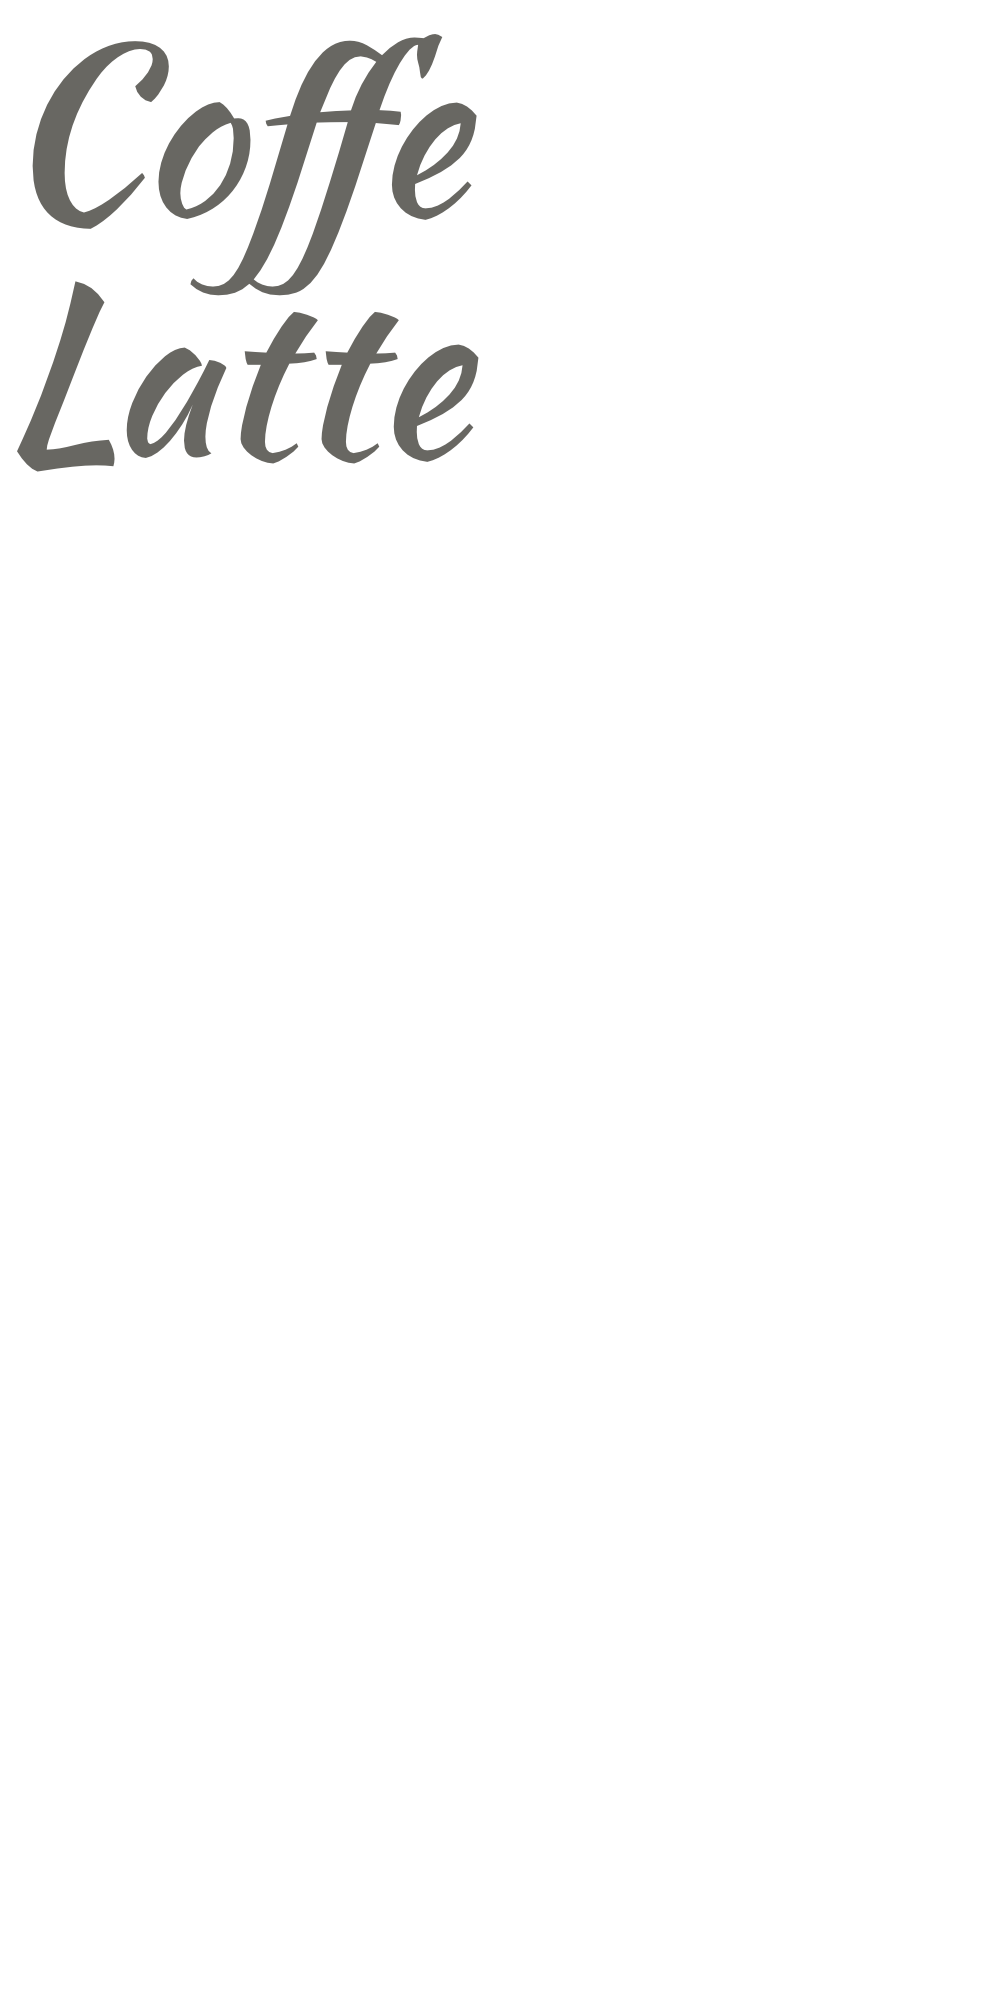
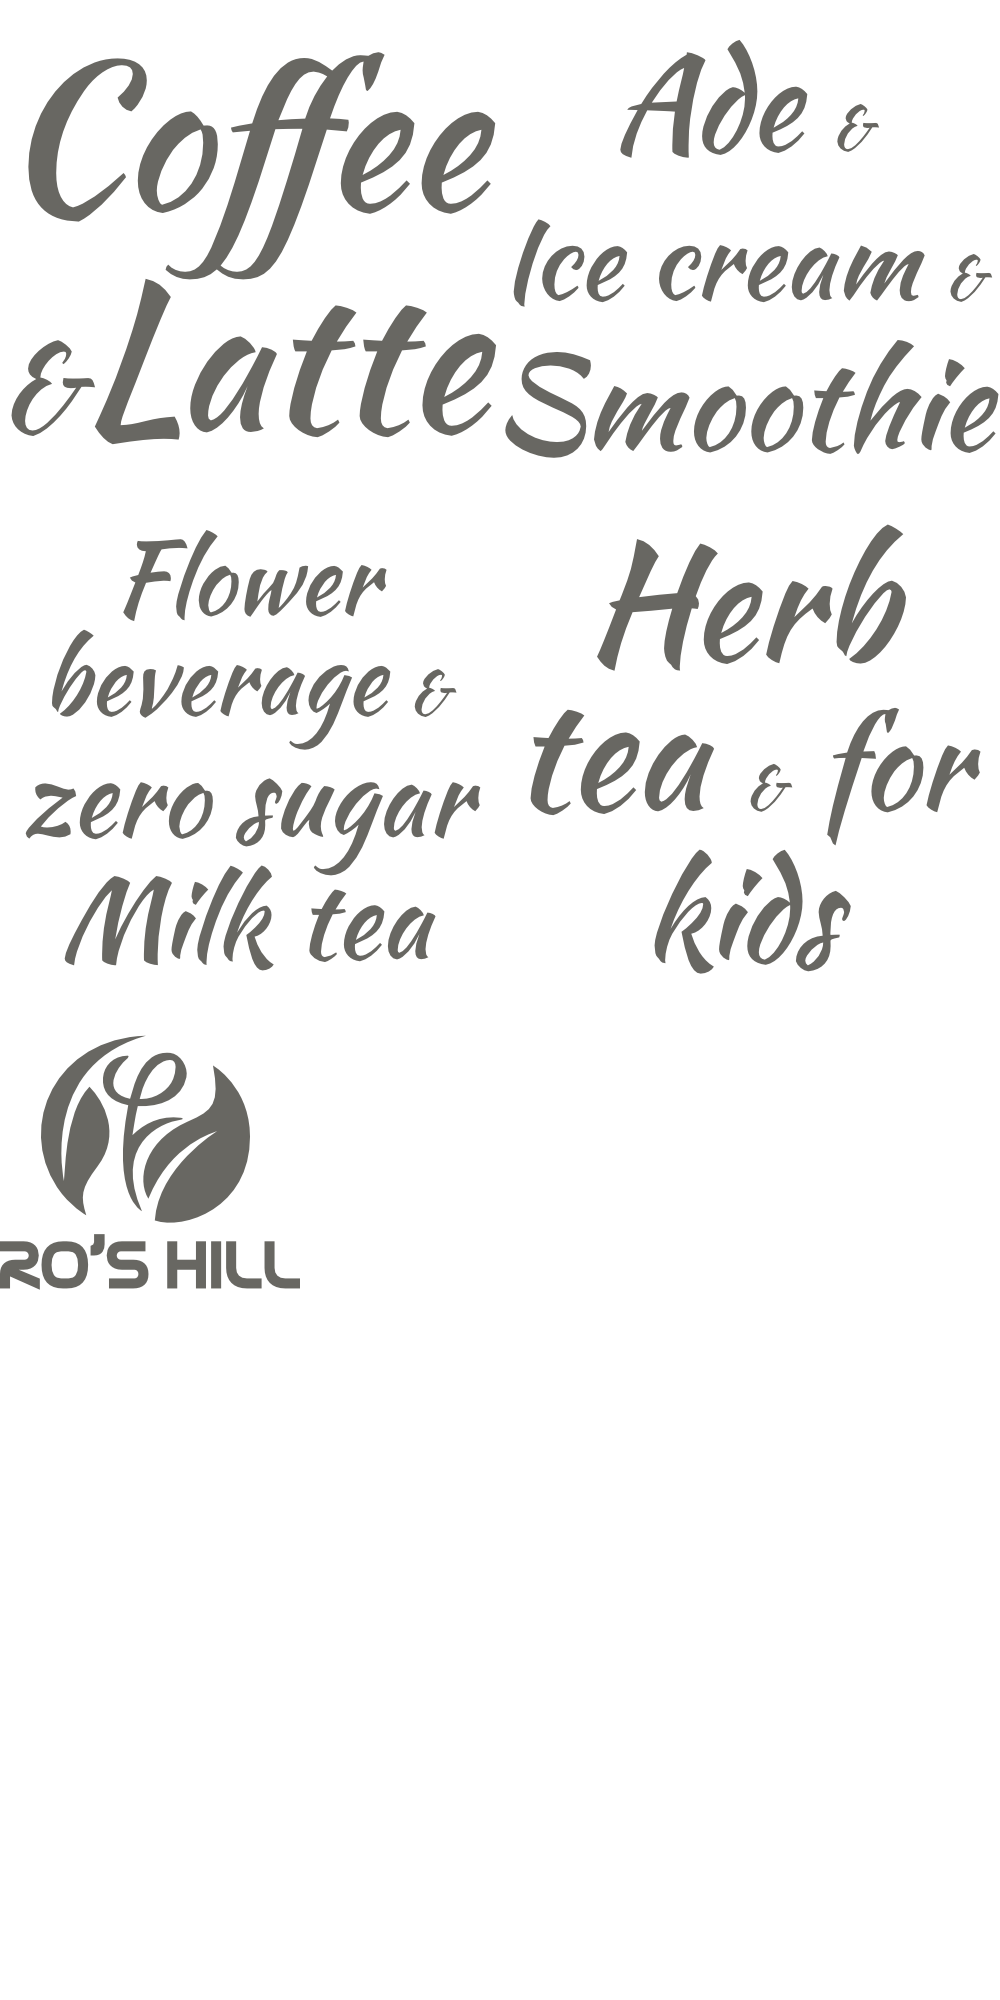
..

diff --git a/src/pages/roshill/index.tsx b/src/pages/roshill/index.tsx
@@ -1,12 +1,20 @@
 import Head from 'next/head'
 import Image from 'next/image'
 import { Inter } from 'next/font/google'
-import { useEffect } from 'react'
+import { useEffect, useState } from 'react'
 
 const inter = Inter({ subsets: ['latin'] })
 
 export default function Home() {
-
+  const [counter, setCount] = useState(0);
+  useEffect(() => {
+    setInterval(() => {
+      setCount(counter + 1);
+    }, 10000);
+  })
+  useEffect(() => {
+    
+  }, [counter])
   function enterFullscreen() {
     document.documentElement.requestFullscreen()
   }
@@ -20,9 +28,10 @@ export default function Home() {
       </Head>
       <main>
         <section className='S-00' onClick={enterFullscreen}>
-          <div className='C-00 isCoffee'>
+          <div className={`C-00 isCoffee ${(counter%4 == 0) ? `isOpened`: null} ${(counter%4 == 1) ? `isFolded`: null}`}>
             <div className='C-01'>
               <div className='C-03 styleSheet'></div>
+              <div className='C-06 styleSheet'></div>
             </div>
             <div className='C-02'>
               <div className='C-04'>
@@ -118,6 +127,260 @@ export default function Home() {
                   <p className='T-01'>Brazilian Geisha Anoxic Fermentation</p>
                 </div>
                 <p className='T-03'>12.0</p>
+              </div>
+            </div>
+          </div>
+          <div className={`C-00 isAde ${(counter%4 == 1) ? `isOpened`: null} ${(counter%4 == 2) ? `isFolded`: null}`}>
+            <div className='C-01'>
+              <div className='C-03 styleSheet'></div>
+              <div className='C-06 styleSheet'></div>
+            </div>
+            <div className='C-02'>
+              <div className='C-04'>
+                <div className='C-05 isLong'>
+                  <p className='T-00'>레몬에이드</p>
+                  <p className='T-01'>Lemon ade</p>
+                </div>
+                <p className='T-03'>6.5</p>
+              </div>
+              <div className='C-04'>
+                <div className='C-05 isLong'>
+                  <p className='T-00'>자몽에이드</p>
+                  <p className='T-01'>Grapefruit ade</p>
+                </div>
+                <p className='T-03'>6.5</p>
+              </div>
+              <div className='C-04'>
+                <div className='C-05 isLong'>
+                  <p className='T-00'>오렌지에이드</p>
+                  <p className='T-01'>Orange ade</p>
+                </div>
+                <p className='T-03'>6.5</p>
+              </div>
+              <div className='C-04'>
+                <div className='C-05 isLong'>
+                  <p className='T-00'>플레인 요거트 스무디</p>
+                  <p className='T-01'>Plain yogurt smoothie</p>
+                </div>
+                <p className='T-03'>6.5</p>
+              </div>
+              <div className='C-04'>
+                <div className='C-05 isLong'>
+                  <p className='T-00'>블루베리 요거트 스무디</p>
+                  <p className='T-01'>Blueberry yogurt smoothie</p>
+                </div>
+                <p className='T-03'>7.5</p>
+              </div>
+              <div className='C-04'>
+                <div className='C-05 isLong'>
+                  <p className='T-00'>망고 요거트 스무디</p>
+                  <p className='T-01'>Mango yogurt smoothie</p>
+                </div>
+                <p className='T-03'>7.5</p>
+              </div>
+              <div className='C-04'>
+                <div className='C-05 isLong'>
+                  <p className='T-00'>딸기 요거트 스무디</p>
+                  <p className='T-01'>Strawberry yogurt smoothie</p>
+                </div>
+                <p className='T-03'>7.5</p>
+              </div>
+            </div>
+            <div className='C-02'>
+            <div className='C-04'>
+                <div className='C-05 isLong'>
+                  <p className='T-00'><span className='isBox'>상하목장</span>밀크 아이스크림</p>
+                  <p className='T-01'>[Sangha Farm] Milk ice cream</p>
+                </div>
+                <p className='T-03'>4.0</p>
+              </div>
+              <div className='C-04'>
+                <div className='C-05 isLong'>
+                  <p className='T-00'><span className='isBox'>상하목장</span>밀크 초코 아이스크림</p>
+                  <p className='T-01'>[Sangha Farm] Milk ice cream with Chocolate</p>
+                </div>
+                <p className='T-03'>5.0</p>
+              </div>
+              <div className='C-04'>
+                <div className='C-05 isLong'>
+                  <p className='T-00'><span className='isEthiopia'></span>전통 팥빙수</p>
+                  <p className='T-01'>Korean red bean bingsu</p>
+                </div>
+                <p className='T-03'>8.0</p>
+              </div>
+              <div className='C-04'>
+                <div className='C-05 isLong'>
+                  <p className='T-00'><span className='isBrazil'></span>흑임자 팥빙수</p>
+                  <p className='T-01'>Red beans and black sesame bingsu</p>
+                </div>
+                <p className='T-03'>9.0</p>
+              </div>
+              <div className='C-04'>
+                <div className='C-05 isLong'>
+                  <p className='T-00'><span className='isBrazil'></span>콜라 / 사이다</p>
+                  <p className='T-01'>Coke / Cider</p>
+                </div>
+                <p className='T-03'>3.0</p>
+              </div>
+            </div>
+          </div>
+          <div className={`C-00 isBeverage ${(counter%4 == 2) ? `isOpened`: null} ${(counter%4 == 3) ? `isFolded`: null}`}>
+            <div className='C-01'>
+              <div className='C-03 styleSheet'></div>
+              <div className='C-06 styleSheet'></div>
+            </div>
+            <div className='C-02'>
+              <div className='C-04'>
+                <div className='C-05 isLong'>
+                  <p className='T-00'>장미 에이드</p>
+                  <p className='T-01'>Rose ade</p>
+                </div>
+                <p className='T-03'>8.5</p>
+              </div>
+              <div className='C-04'>
+                <div className='C-05 isLong'>
+                  <p className='T-00'>벗꽃 에이드</p>
+                  <p className='T-01'>Cherry blossom ade</p>
+                </div>
+                <p className='T-03'>8.5</p>
+              </div>
+              <div className='C-04'>
+                <div className='C-05 isLong'>
+                  <p className='T-00'>아카시아 에이드</p>
+                  <p className='T-01'>Acacia ade</p>
+                </div>
+                <p className='T-03'>8.5</p>
+              </div>
+              <div className='C-04'>
+                <div className='C-05 isLong'>
+                  <p className='T-00'>국화 에이드</p>
+                  <p className='T-01'>Chrysanthemum ade</p>
+                </div>
+                <p className='T-03'>8.5</p>
+              </div>
+            </div>
+            <div className='C-02'>
+              <div className='C-04'>
+                <div className='C-05 isLong'>
+                  <p className='T-00'><span className='isBox'>제로슈가</span>얼그레이 밀크티</p>
+                  <p className='T-01'>[Zero sugar] Earl grey milk tea</p>
+                </div>
+                <p className='T-03'>7.5</p>
+              </div>
+              <div className='C-04'>
+                <div className='C-05 isLong'>
+                  <p className='T-00'><span className='isBox'>제로슈가</span>아쌈 밀크티</p>
+                  <p className='T-01'>[Zero sugar] Assam milk tea</p>
+                </div>
+                <p className='T-03'>7.5</p>
+              </div>
+              <div className='C-04'>
+                <div className='C-05 isLong'>
+                  <p className='T-00'><span className='isBox'>제로슈가</span>말차 밀크티</p>
+                  <p className='T-01'>[Zero sugar] Matcha milk tea</p>
+                </div>
+                <p className='T-03'>7.5</p>
+              </div>
+              <div className='C-04'>
+                <div className='C-05 isLong'>
+                  <p className='T-00'><span className='isBox'>제로슈가</span>진저웜 밀크티</p>
+                  <p className='T-01'>[Zero sugar] Ginger milk tea</p>
+                </div>
+                <p className='T-03'>7.5</p>
+              </div>
+              <div className='C-04'>
+                <div className='C-05 isLong'>
+                  <p className='T-00'><span className='isBox'>제로슈가</span>쌍화 밀크티</p>
+                  <p className='T-01'>[Zero sugar] Herb tonic milk tea</p>
+                </div>
+                <p className='T-03'>7.5</p>
+              </div>
+            </div>
+          </div>
+          <div className={`C-00 isHerb ${(counter%4 == 3) ? `isOpened`: null} ${(counter%4 == 0) ? `isFolded`: null}`}>
+            <div className='C-01'>
+              <div className='C-03 styleSheet'></div>
+              <div className='C-06 styleSheet'></div>
+            </div>
+            <div className='C-02'>
+              <div className='C-04'>
+                <div className='C-05 isLong'>
+                  <p className='T-00'>페퍼민트 차</p>
+                  <p className='T-01'>Pappermint herb tea</p>
+                </div>
+                <p className='T-03'>5.0</p>
+              </div>
+              <div className='C-04'>
+                <div className='C-05 isLong'>
+                  <p className='T-00'>와일드 체리 블렌딩 허브차</p>
+                  <p className='T-01'>Wild cherry herb tea</p>
+                </div>
+                <p className='T-03'>5.0</p>
+              </div>
+              <div className='C-04'>
+                <div className='C-05 isLong'>
+                  <p className='T-00'>레몬 앤 진저 블렌딩 허브차</p>
+                  <p className='T-01'>Lemon & ginger herb tea</p>
+                </div>
+                <p className='T-03'>5.0</p>
+              </div>
+              <div className='C-04'>
+                <div className='C-05 isLong'>
+                  <p className='T-00'>핑크 자몽 블라썸 블렌딩 허브차</p>
+                  <p className='T-01'>Pink grapefruit blossom herb tea </p>
+                </div>
+                <p className='T-03'>5.0</p>
+              </div>
+              <div className='C-04'>
+                <div className='C-05 isLong'>
+                  <p className='T-00'>얼그레이 플라워 허브차</p>
+                  <p className='T-01'>Earl grey flower herb tea </p>
+                </div>
+                <p className='T-03'>5.0</p>
+              </div>
+              <div className='C-04'>
+                <div className='C-05 isLong'>
+                  <p className='T-00'>아이스티</p>
+                  <p className='T-01'>Ice tea</p>
+                </div>
+                <p className='T-03'>5.0</p>
+              </div>
+              <div className='C-04'>
+                <div className='C-05 isLong'>
+                  <p className='T-00'>아.샷.추.</p>
+                  <p className='T-01'>Ice tea & espresso</p>
+                </div>
+                <p className='T-03'>6.0</p>
+              </div>
+            </div>
+            <div className='C-02'>
+              <div className='C-04'>
+                <div className='C-05 isLong'>
+                  <p className='T-00'>뽀로로 음료수 (사과 / 밀크 / 딸기)</p>
+                  <p className='T-01'>Pororo Beverage (apple / milk / strawberry)</p>
+                </div>
+                <p className='T-03'>3.0</p>
+              </div>
+              <div className='C-04'>
+                <div className='C-05 isLong'>
+                  <p className='T-00'>티니핑 음료수 (애플망고 / 샤인머스켓)</p>
+                  <p className='T-01'>Teenieping Beverage (apple mango / shine muscat)</p>
+                </div>
+                <p className='T-03'>3.0</p>
+              </div>
+              <div className='C-04'>
+                <div className='C-05 isLong'>
+                  <p className='T-00'>시금치 피자</p>
+                  <p className='T-01'>Spinach pizza</p>
+                </div>
+                <p className='T-03'>14.5</p>
+              </div>
+              <div className='C-04'>
+                <div className='C-05 isLong'>
+                  <p className='T-00'>모짜렐라 피자</p>
+                  <p className='T-01'>Mozzarella pizza</p>
+                </div>
+                <p className='T-03'>15.0</p>
               </div>
             </div>
           </div>

diff --git a/src/styles/globals.css b/src/styles/globals.css
@@ -74,8 +74,6 @@ a {
 
 .styleSheet {
   background: url(/styleSheet.png) no-repeat;
-  width: 500px;
-  height: 1000px;
   background-size: 500px 1000px;
 }
 
@@ -91,6 +89,27 @@ a {
   height: 100%;
   display: flex;
   padding: 0 2.5vw;
+  position: fixed;
+  transition: 1s ease-in-out;
+  top:100vh;
+  z-index: normal;
+}
+.S-00 .C-00.isAde {
+  background-color: #DEF1D0;
+}
+.S-00 .C-00.isBeverage {
+  background-color: #CBCEEA;
+}
+.S-00 .C-00.isHerb {
+  background-color: #F8E5E5;
+}
+.S-00 .C-00.isOpened {
+  top:0;
+  z-index: 3;
+}
+.S-00 .C-00.isFolded {
+  top:-50vh;
+  z-index: 2;
 }
 .S-00 .C-01 {
   width: 25vw;
@@ -104,7 +123,17 @@ a {
 .S-00 .C-03 {
   width: 250px;
   height: 250px;
-  margin: 100px calc(50% - 125px);
+  margin: 250px calc(50% - 125px) 0;
+}
+.S-00 .C-00.isAde .C-03 {
+  background-position-x: -250px;
+}
+.S-00 .C-00.isBeverage .C-03 {
+  background-position-y: -250px;
+}
+.S-00 .C-00.isHerb .C-03 {
+  background-position-x: -250px;
+  background-position-y: -250px;
 }
 .S-00 .C-04 {
   display: flex;
@@ -117,8 +146,19 @@ a {
 .S-00 .C-05.isLong {
   width: 375px;
 }
+.S-00 .C-06 {
+  width: 150px;
+  height: 150px;
+  background-position-y: -500px;
+  margin: 50px calc(50% - 75px) 0;
+  opacity: .3;
+  transform: scale(.8);
+}
 .S-00 .T-00 {
   font-size: 2.3em;
+}
+.S-00 .T-00 .isBox {
+  margin-right:10px;
 }
 .S-00 .T-01 {
   font-size: 1.6em;
@@ -144,6 +184,9 @@ a {
 }
 
 @media only screen and (max-width: 1750px) {
+  .S-00 .C-03 {
+    margin: 200px calc(50% - 125px) 0;
+  }
   .S-00 .C-05 {
     width: 170px;
   }
@@ -162,9 +205,10 @@ a {
   .S-00 .T-02 {
     font-size: .8em;
     width: 85px;
-    margin-right: 10px;
+    margin: 22px 10px 22px 0;
   }
   .S-00 .T-03 {
     width: calc(100% - 265px);
+    line-height: 80px;
   }
 }
